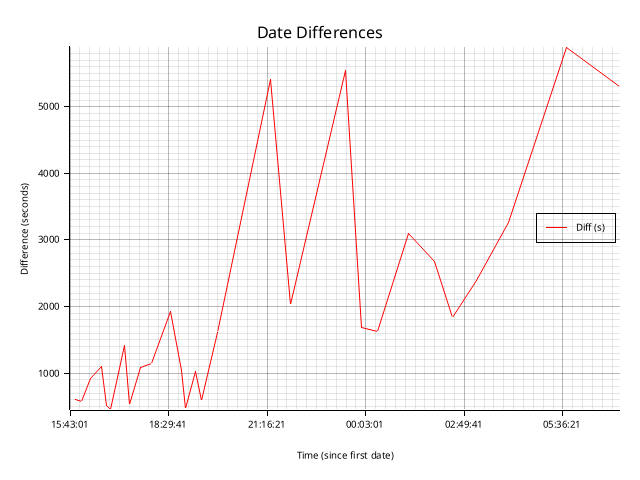
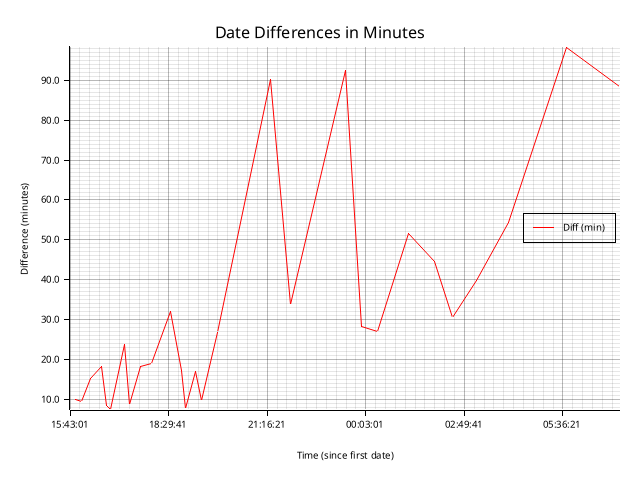
feat: Change y-axis to minutes rather than seconds
Asked the bot to do the change, works but still 8 warnings.
Link to updated chat:
  https://chatgpt.com/share/67c47e77-66c4-800c-ad0c-c1cbada38d7a

Changed region(s): [[0.0312, 0.0312, 0.9688, 0.875]]

diff --git a/src/main.rs b/src/main.rs
@@ -27,34 +27,34 @@ fn main() -> Result<(), Box<dyn Error>> {
     // Ensure dates are sorted (if not already).
     dates.sort();
 
-    // Compute differences (in seconds) between adjacent dates.
-    // We'll plot the point corresponding to the later date of each pair.
+    // Compute differences between adjacent dates in minutes (as f64).
+    // We plot the point corresponding to the later date of each pair.
     let first_date = dates[0];
-    let data: Vec<(i64, i64)> = dates.windows(2)
+    let data: Vec<(i64, f64)> = dates.windows(2)
         .map(|window| {
             let dt_current = window[1];
-            let diff = dt_current.signed_duration_since(window[0]).num_seconds();
+            let diff_seconds = dt_current.signed_duration_since(window[0]).num_seconds();
+            let diff_minutes = diff_seconds as f64 / 60.0;
             // x-value: seconds elapsed since the first date.
             let x_val = dt_current.timestamp() - first_date.timestamp();
-            (x_val, diff)
+            (x_val, diff_minutes)
         })
         .collect();
 
     // Define the x-axis range (in seconds from the first date).
     let x_min = 0;
     let x_max = dates.last().unwrap().timestamp() - first_date.timestamp();
-    // y-axis range based on the computed differences.
-    let y_min = data.iter().map(|&(_, diff)| diff).min().unwrap() - 1;
-    let y_max = data.iter().map(|&(_, diff)| diff).max().unwrap() + 1;
+    // y-axis range based on the computed differences in minutes.
+    let y_min = data.iter().map(|&(_, diff)| diff).fold(f64::INFINITY, f64::min) - 0.1;
+    let y_max = data.iter().map(|&(_, diff)| diff).fold(f64::NEG_INFINITY, f64::max) + 0.1;
 
     // Create a drawing area (output image).
     let root = BitMapBackend::new("output.png", (640, 480)).into_drawing_area();
     root.fill(&WHITE)?;
 
-    // Build the chart with custom x-axis labels (formatted as HH:MM:SS).
     let first_ts = first_date.timestamp();
     let mut chart = ChartBuilder::on(&root)
-        .caption("Date Differences", ("sans-serif", 20))
+        .caption("Date Differences in Minutes", ("sans-serif", 20))
         .margin(20)
         .x_label_area_size(50)
         .y_label_area_size(50)
@@ -62,7 +62,7 @@ fn main() -> Result<(), Box<dyn Error>> {
 
     chart.configure_mesh()
         .x_desc("Time (since first date)")
-        .y_desc("Difference (seconds)")
+        .y_desc("Difference (minutes)")
         .x_label_formatter(&move |x| {
             // Convert x (seconds offset) back to a time.
             let dt = NaiveDateTime::from_timestamp(first_ts + *x, 0);
@@ -75,7 +75,7 @@ fn main() -> Result<(), Box<dyn Error>> {
         data.iter().map(|&(x, y)| (x, y)),
         &RED,
     ))?
-    .label("Diff (s)")
+    .label("Diff (min)")
     .legend(|(x, y)| Path::new(vec![(x, y), (x + 20, y)], &RED));
 
     // Optional: add a legend.
